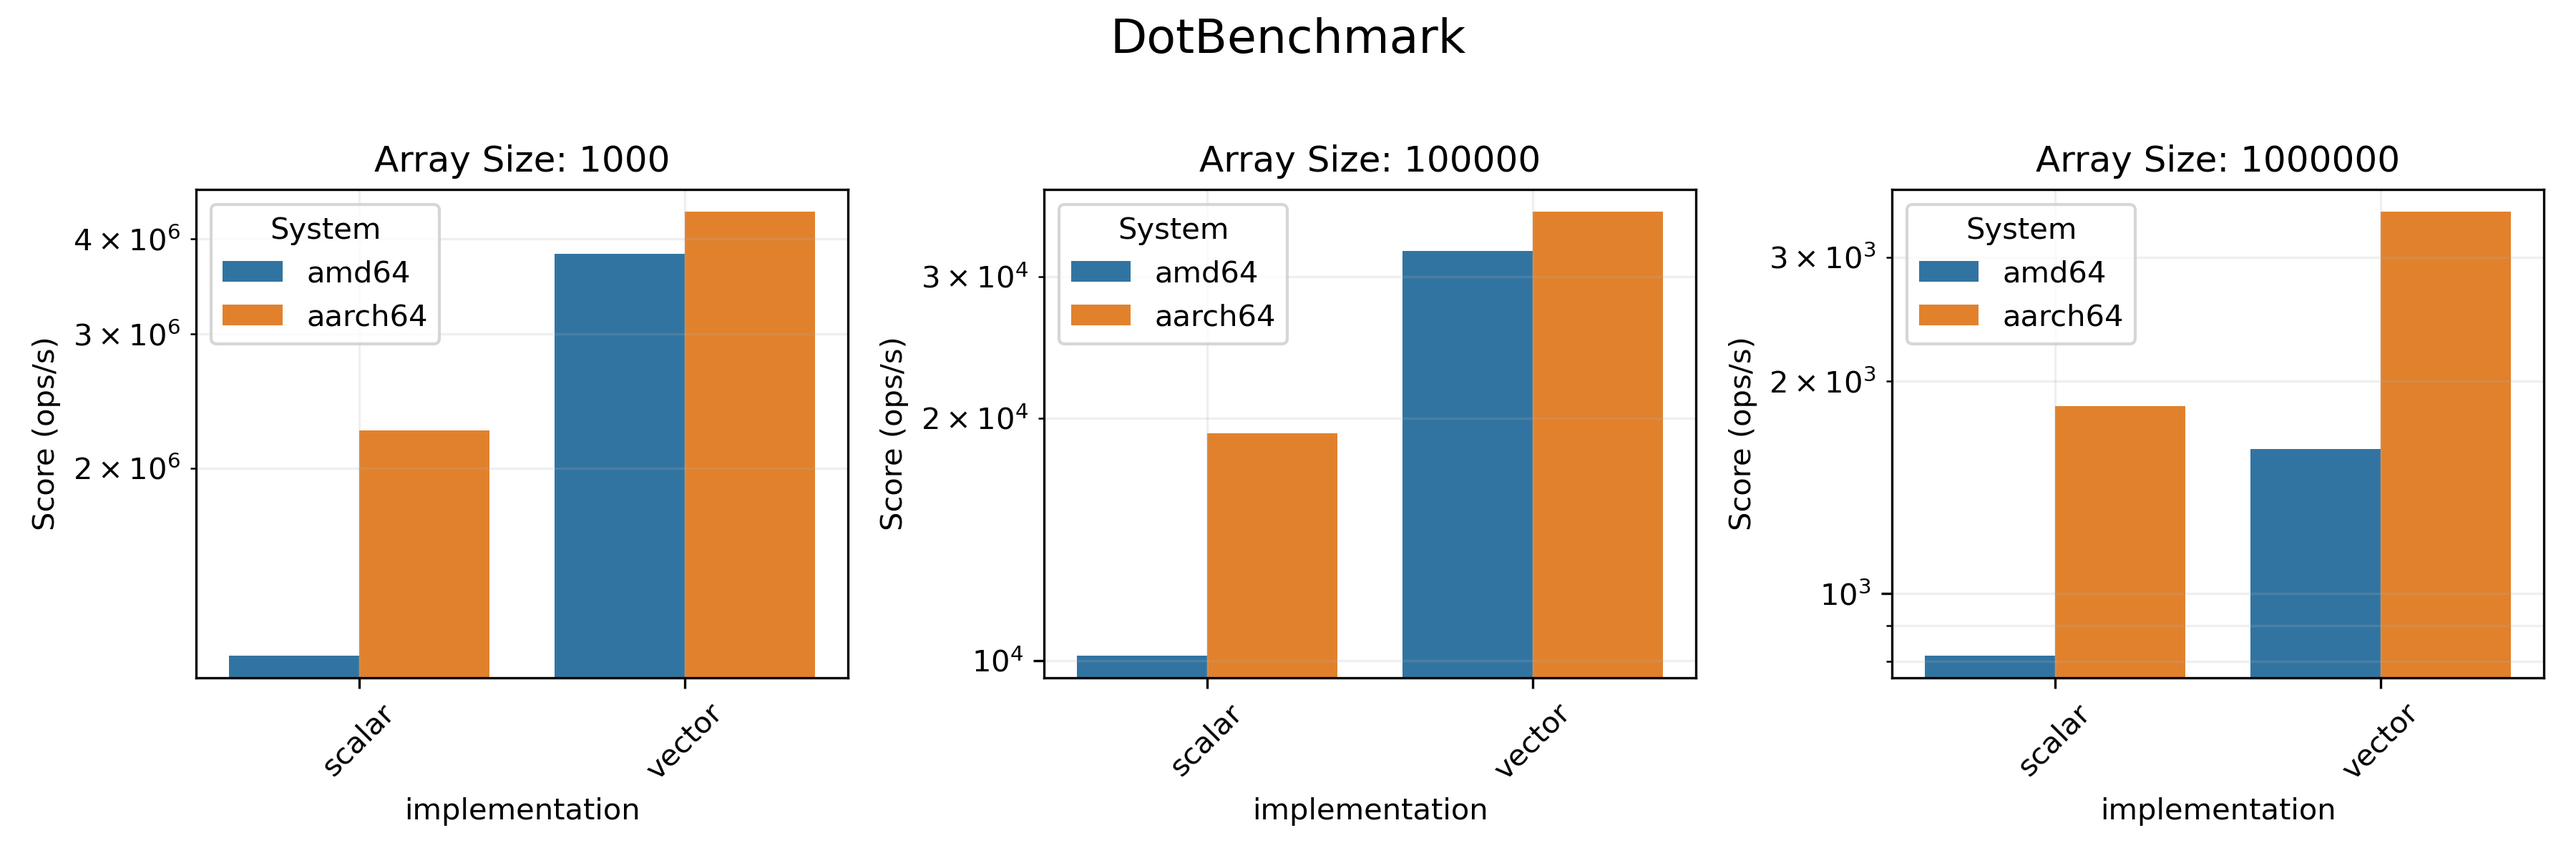
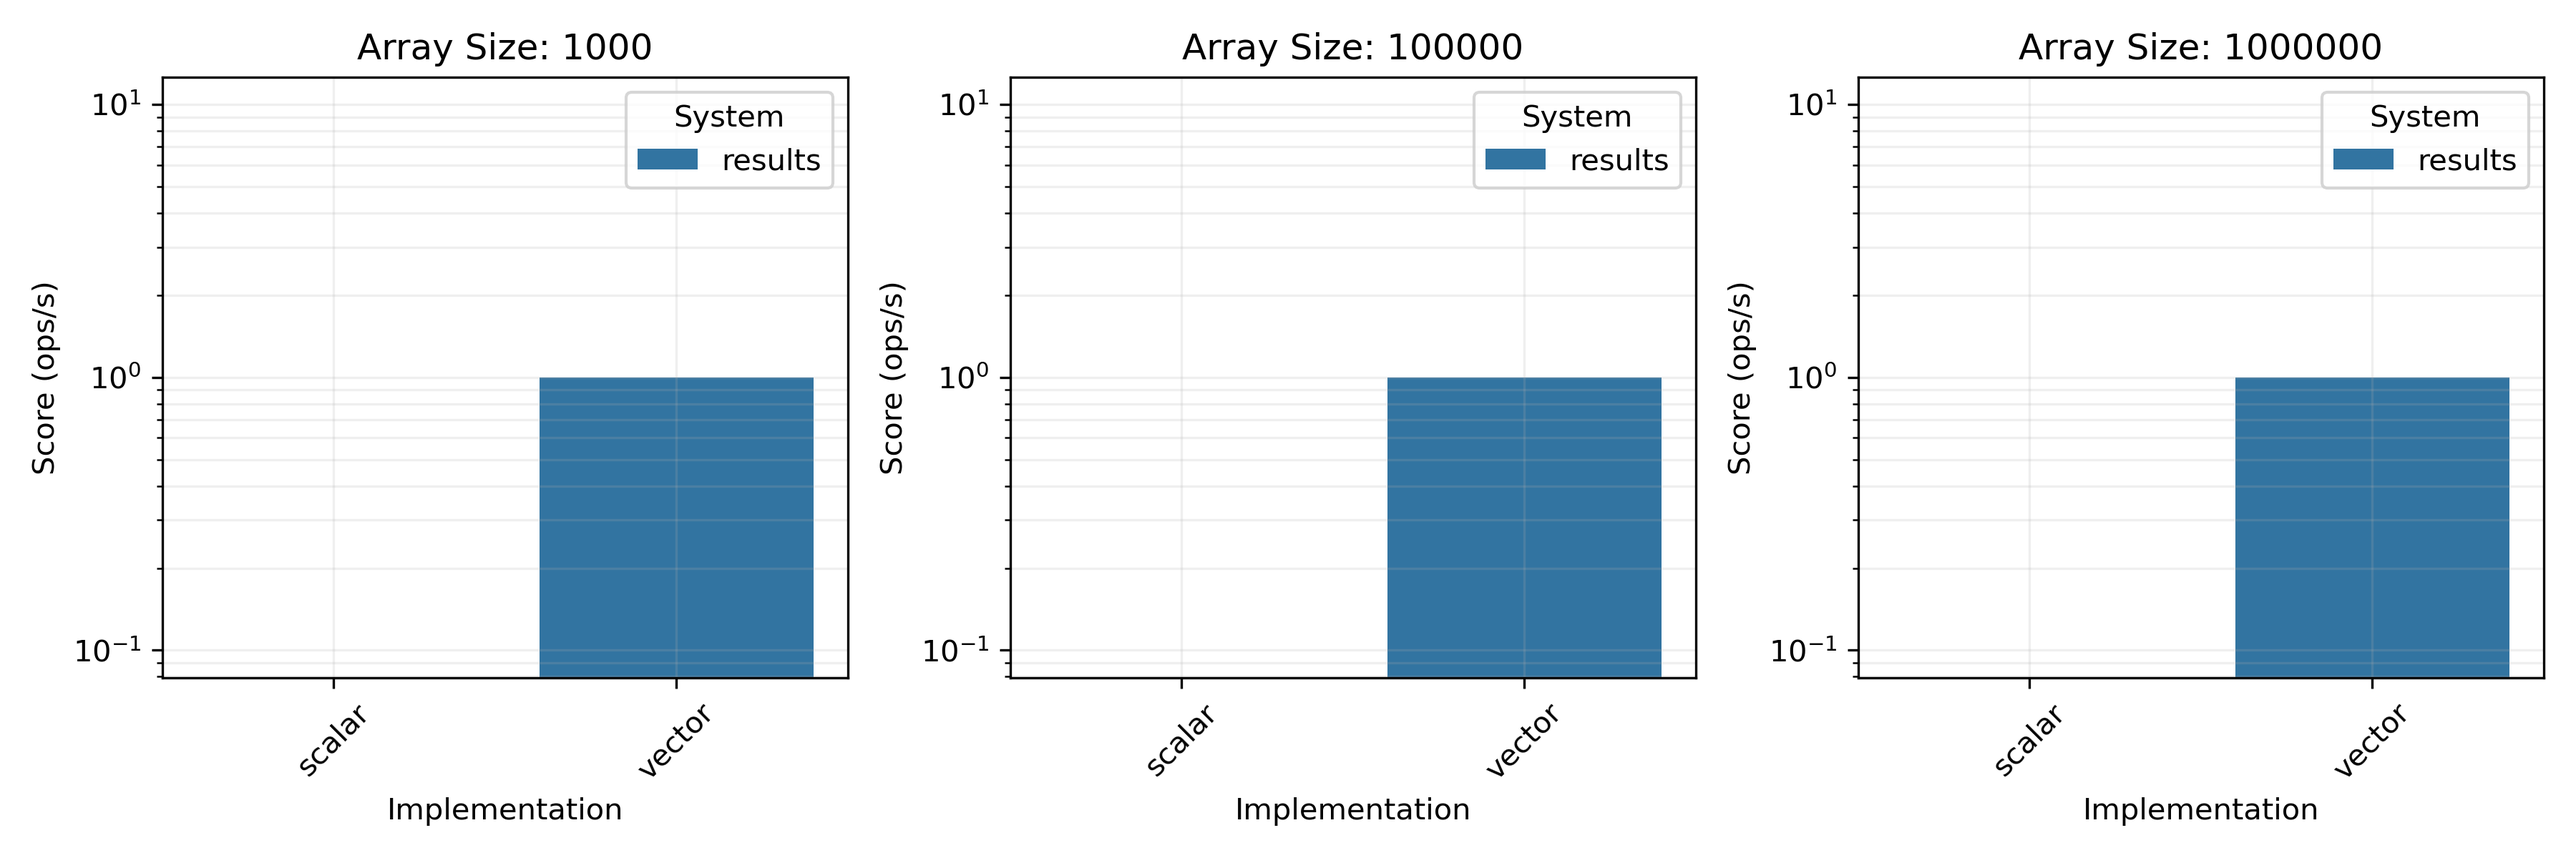
More flexible benchmarks processing

diff --git a/plot_benchmarks.py b/plot_benchmarks.py
@@ -1,62 +1,64 @@
+import argparse
 import os
-import json
-import matplotlib.pyplot as plt
-import numpy as np
-import seaborn as sns
-import pandas as pd
+import sys
+from pathlib import Path
 
-# File paths
-amd64_file = 'build/results/jmh/amd64.txt'
-aarch64_file = 'build/results/jmh/aarch64.txt'
+import matplotlib.pyplot as plt
+import pandas as pd
+import seaborn as sns
+
+"""
+Plot benchmark results from multiple files.
+
+Usage:
+    python plot_benchmarks.py file1.csv file2.csv ...
+
+The filename (without extension) will be used as the system name in the plots.
+For example, 'amd64.csv' will be labeled as 'amd64' in the plots.
+
+Output:
+    - PNG charts in the 'docs/benchmark_plots' directory
+    - Text summary of benchmark results
+"""
+
+# Parse command line arguments
+parser = argparse.ArgumentParser(description='Plot benchmark results from multiple files.')
+parser.add_argument('benchmark_files', nargs='+', help='Benchmark files to process (*.csv)')
+args = parser.parse_args()
 
 # Function to parse benchmark file
 def parse_benchmark_file(file_path, system_name):
-    with open(file_path, 'r') as f:
-        lines = f.readlines()
+    bench_df = pd.read_csv(file_path)
+    bench_df['System'] = system_name
+    return bench_df
 
-    # Skip header line
-    data_lines = lines[1:]
+# Parse all benchmark files
+dfs = []
+for benchmark_file in args.benchmark_files:
+    # Check if file exists
+    if not os.path.isfile(benchmark_file):
+        print(f"Error: File '{benchmark_file}' does not exist. Skipping.", file=sys.stderr)
+        continue
 
-    # Parse data
-    data = []
-    for line in data_lines:
-        if not line.strip():
-            continue
+    # Extract system name from filename (without extension)
+    system_name = Path(benchmark_file).stem
+    print(f"Processing {benchmark_file} as system '{system_name}'")
 
-        parts = line.split()
-        benchmark_full = parts[0]
-        array_size = int(parts[1])
-        score = float(parts[4].replace(',', '.'))  # Handle comma as decimal separator
+    try:
+        # Parse the file
+        dfs.append(parse_benchmark_file(benchmark_file, system_name))
+    except Exception as e:
+        print(f"Error processing file '{benchmark_file}': {e}", file=sys.stderr)
 
-        # Split benchmark name into benchmark type and implementation
-        benchmark_parts = benchmark_full.split('.')
-        benchmark_type = benchmark_parts[0]
-        implementation = benchmark_parts[1]
+# Check if we have any data to process
+if not dfs:
+    print("No valid benchmark data found. Exiting.", file=sys.stderr)
+    sys.exit(1)
 
-        data.append({
-            'benchmark_type': benchmark_type,
-            'implementation': implementation,
-            'array_size': array_size,
-            'score': score,
-            'system': system_name
-        })
-
-    return data
-
-# Parse both files
-amd64_data = parse_benchmark_file(amd64_file, 'amd64')
-aarch64_data = parse_benchmark_file(aarch64_file, 'aarch64')
-
-# Combine data
-combined_data = amd64_data + aarch64_data
-
-# Organize data by benchmark type
-benchmark_data = {}
-for entry in combined_data:
-    benchmark_type = entry['benchmark_type']
-    if benchmark_type not in benchmark_data:
-        benchmark_data[benchmark_type] = []
-    benchmark_data[benchmark_type].append(entry)
+df = pd.concat(dfs).reset_index(drop=True)
+df['BenchmarkType'] = df['Benchmark'].str.split('.').str[-2]
+df['Implementation'] = df['Benchmark'].str.split('.').str[-1]
+print(df.columns)
 
 # Create output directory for PNG files
 os.makedirs('docs/benchmark_plots', exist_ok=True)
@@ -64,33 +66,26 @@ os.makedirs('docs/benchmark_plots', exist_ok=True)
 print("\nGenerating benchmark plots...")
 
 # Process each benchmark type
-for benchmark_type, data in benchmark_data.items():
-    # Convert data to pandas DataFrame
-    df = pd.DataFrame(data)
-
+for benchmark_type, data in df.groupby('BenchmarkType'):
     # Get unique array sizes
-    array_sizes = sorted(df['array_size'].unique())
+    array_sizes = sorted(data['Param: arraySize'].unique())
 
     # Create a new figure for each benchmark
-    # Adjust figure width based on number of array sizes
     num_sizes = len(array_sizes)
-    fig_width = max(12, num_sizes * 3)  # Ensure minimum width of 15, but scale with number of plots
+    fig_width = max(12, num_sizes * 3)
     plt.figure(figsize=(fig_width, 4), dpi=300)
 
     # Create subplots for each array size in a single row
     for i, array_size in enumerate(array_sizes):
-        # Filter data for this array size
-        size_df = df[df['array_size'] == array_size]
-
         # Create subplot in a single row
         plt.subplot(1, num_sizes, i + 1)
 
         # Create barplot with system as hue
         sns.barplot(
-            x='implementation',
-            y='score',
-            hue='system',
-            data=size_df,
+            data=(data[data['Param: arraySize'] == array_size]),
+            x='Implementation',
+            y='Score',
+            hue='System',
         )
 
         # Set up the subplot
@@ -100,30 +95,15 @@ for benchmark_type, data in benchmark_data.items():
         plt.xticks(rotation=45)
         plt.legend(title='System')
         plt.grid(True, which="both", ls="-", alpha=0.2)
-
-    # Set up the overall plot
-    plt.suptitle(benchmark_type, fontsize=16)
-    plt.tight_layout(rect=[0, 0, 1, 0.96])  # Adjust for suptitle
+        # Fix y-axis orientation (ensure lowest at bottom, highest at top)
+        plt.gca().invert_yaxis()
 
     # Save the plot as PNG
-    output_file = f"docs/benchmark_plots/{benchmark_type}.png"
-    plt.savefig(output_file)
+    plt.tight_layout()
+    plt.savefig(f"docs/benchmark_plots/{benchmark_type}.png")
     plt.close()
 
-    print(f"Created: {output_file}")
+    print(f"Created: docs/benchmark_plots/{benchmark_type}.png")
 
-    # Also output data in text format
-    print(f"\n=== {benchmark_type} ===")
-    print("Implementation, System, Array Size, Score (ops/s)")
-
-    # Sort data by implementation, system, and array size
-    sorted_data = sorted(data, key=lambda x: (
-        x['implementation'], 
-        x['system'], 
-        x['array_size']
-    ))
-
-    for entry in sorted_data:
-        print(f"{entry['implementation']}, {entry['system']}, {entry['array_size']}, {entry['score']}")
 
 print("\nPNG charts have been created in the 'docs/benchmark_plots' directory.")

diff --git a/docs/benchmark.md b/docs/benchmark.md
@@ -10,11 +10,11 @@ the following commands from `viktor`'s root folder:
 $ ./gradlew jmh
 ```
 
-This will create a file `build/jmh/results.txt`, please move it into `amd64.txt` or `aarch64.txt` for visualization.
+This will create a file `build/jmh/results.csv`, copy it into `amd64.csv` or `aarch64.csv` for visualization.
 Next, launch the command line:
 
 ```bash
-$ python plot_benchmarks.py
+$ python plot_benchmarks.py amd64.csv aarch64.csv
 ```
 
 ## Benchmark Environment
